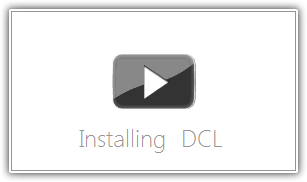
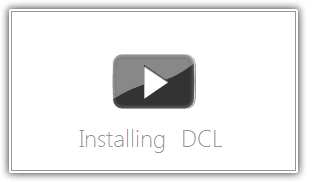
Updating website

diff --git a/website/index.html b/website/index.html
@@ -19,7 +19,7 @@
     <script type="text/javascript" src="index_panels/animatedcollapse.js"></script>
     
     <script type="text/javascript">
-		animatedcollapse.addDiv('p1', 'fade=0,speed=400,group=paineis,hide=1')
+
 		animatedcollapse.addDiv('p2', 'fade=0,speed=400,group=paineis,hide=1')
 		animatedcollapse.addDiv('p3', 'fade=0,speed=400,group=paineis,hide=1')
 		animatedcollapse.addDiv('p4', 'fade=0,speed=400,group=paineis,hide=1')
@@ -68,22 +68,12 @@
         </tr>
     	</tbody></table>
         
-		<!-- Vídeo de uso -->
-		<div class="videogallery" style="margin-bottom: 10px; margin-top:15px;">
-				<a class="voverlay" href="index_videolb/player.swf?url=video/working.flv&volume=100" title="Video explaining how DCL works">
-                	<img src="index_videolb/thumbnails/working.png" alt="working" width="90%"/><span></span>
-                </a>
-			</div>
-			
-			<script src="index_videolb/jquery.tools.min.js" type="text/javascript"></script>
-			<script src="index_videolb/videolightbox.js" type="text/javascript"></script>
 		</div>
         
         <div class="Titulo">
         	<!-- Painel 1 -->
         	<a href="#" rel="toggle[p1]" data-openimage="images/collapse.png" data-closedimage="images/expand.png" style="text-decoration:none">
-    			<img src="images/collapse.png" alt="p1" border="0" style="margin-left:15px; margin-right:5px;" />
-			</a> <font color="#444444">Using DCL</font>
+			</a>
 
 			<div id="p1" style="width: 800px; background: #FFFFFF;">
 				<ul>
@@ -105,6 +95,18 @@ syntax. The following figure summarizes the language syntax:<p>
                     <!--p><img src="images/line.png" alt="line"/></p-->
 				</div>
                 <ul><div class="Painel">
+                	<p>The following video illustrates the installation and use of DCL:</p>
+                    
+                    <!-- Vídeo de uso -->
+		<div class="videogallery" align="center">
+				<a class="voverlay" href="index_videolb/player.swf?url=video/working.flv&volume=100" title="Video explaining how DCL works">
+                	<img src="index_videolb/thumbnails/working.png" alt="working" width="94%"/><span></span>
+                </a>
+			</div>
+			
+			<script src="index_videolb/jquery.tools.min.js" type="text/javascript"></script>
+			<script src="index_videolb/videolightbox.js" type="text/javascript"></script>
+                    
                 	<p>The manual of DCL can be found <a href="http://www.dclsuite.org/manual/" style="text-decoration:none; color: inherit; font-weight:600;" target="_new">&lt;here&gt;</a>.</p>
                 </div></ul>
 			</div>
@@ -124,9 +126,9 @@ syntax. The following figure summarizes the language syntax:<p>
                     The following video explains the complete procedure:
                 </ul>
                 <div class="Default">
-					<div class="videogallery" style="text-align:left;">
+					<div class="videogallery" align="center">
                 		<ul><a class="voverlay" href="index_videolb/player.swf?url=video/installing.flv&volume=100" title="installing">
-                			<img src="index_videolb/thumbnails/installing.png" alt="installing" style="width:70%;" /><span></span>
+                			<img src="index_videolb/thumbnails/installing.png" alt="installing" style="width:94%;" /><span></span>
 						</a>
                         </ul>
 					</div>
